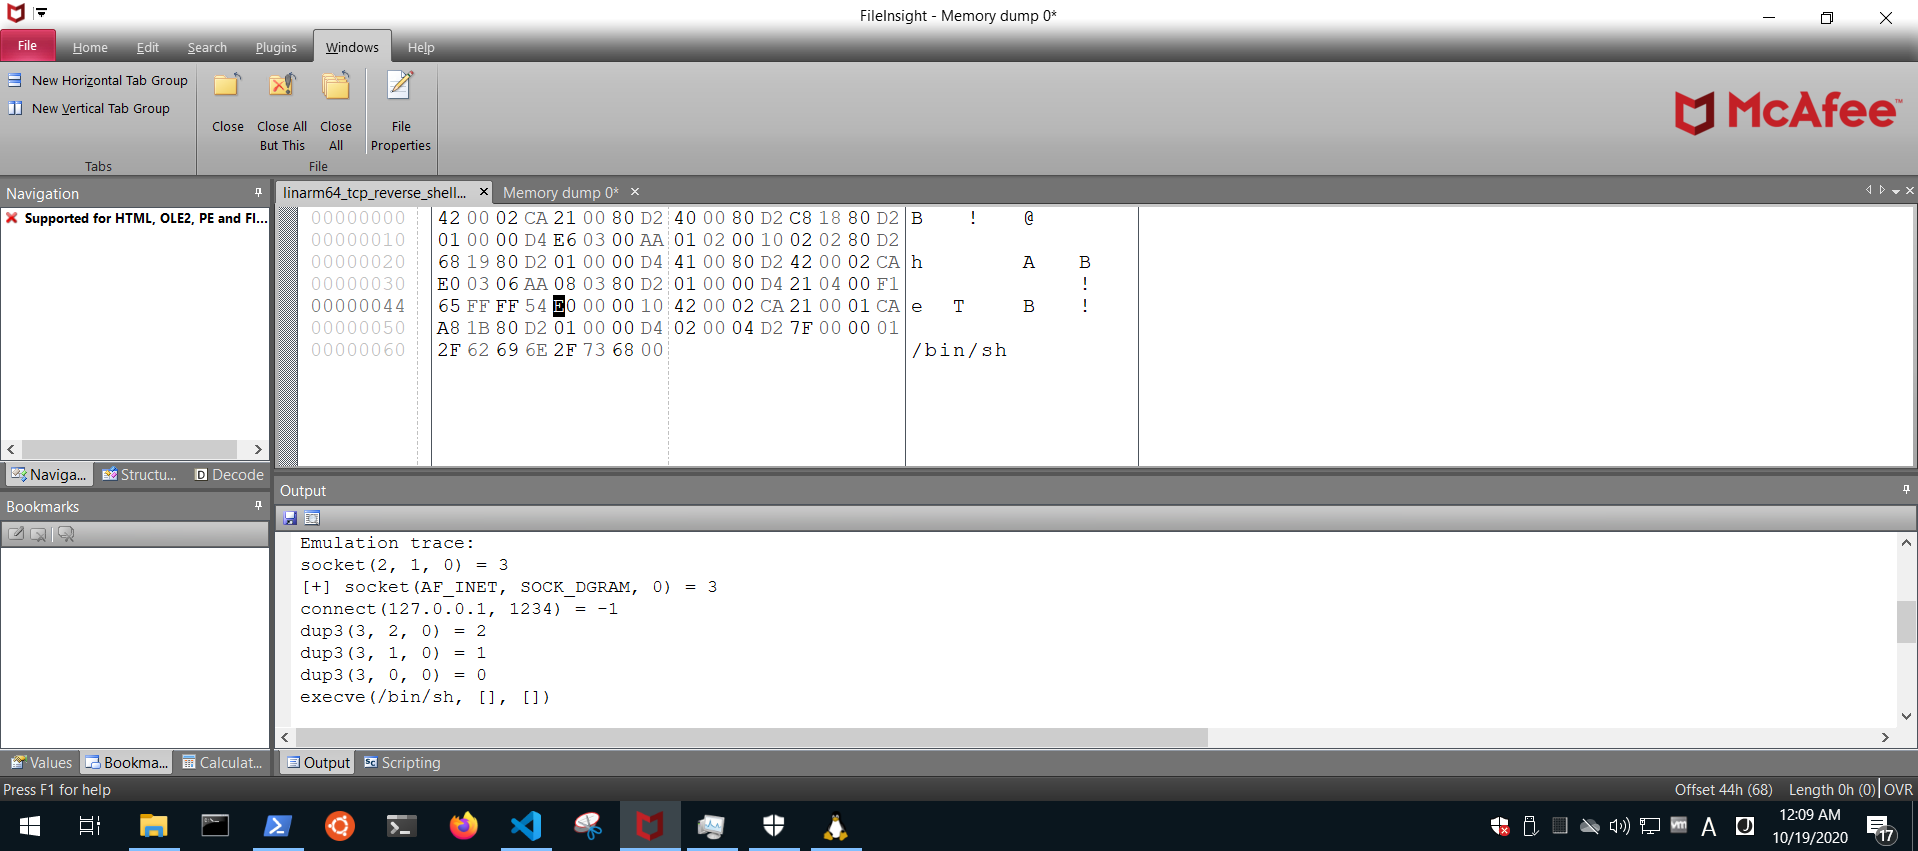
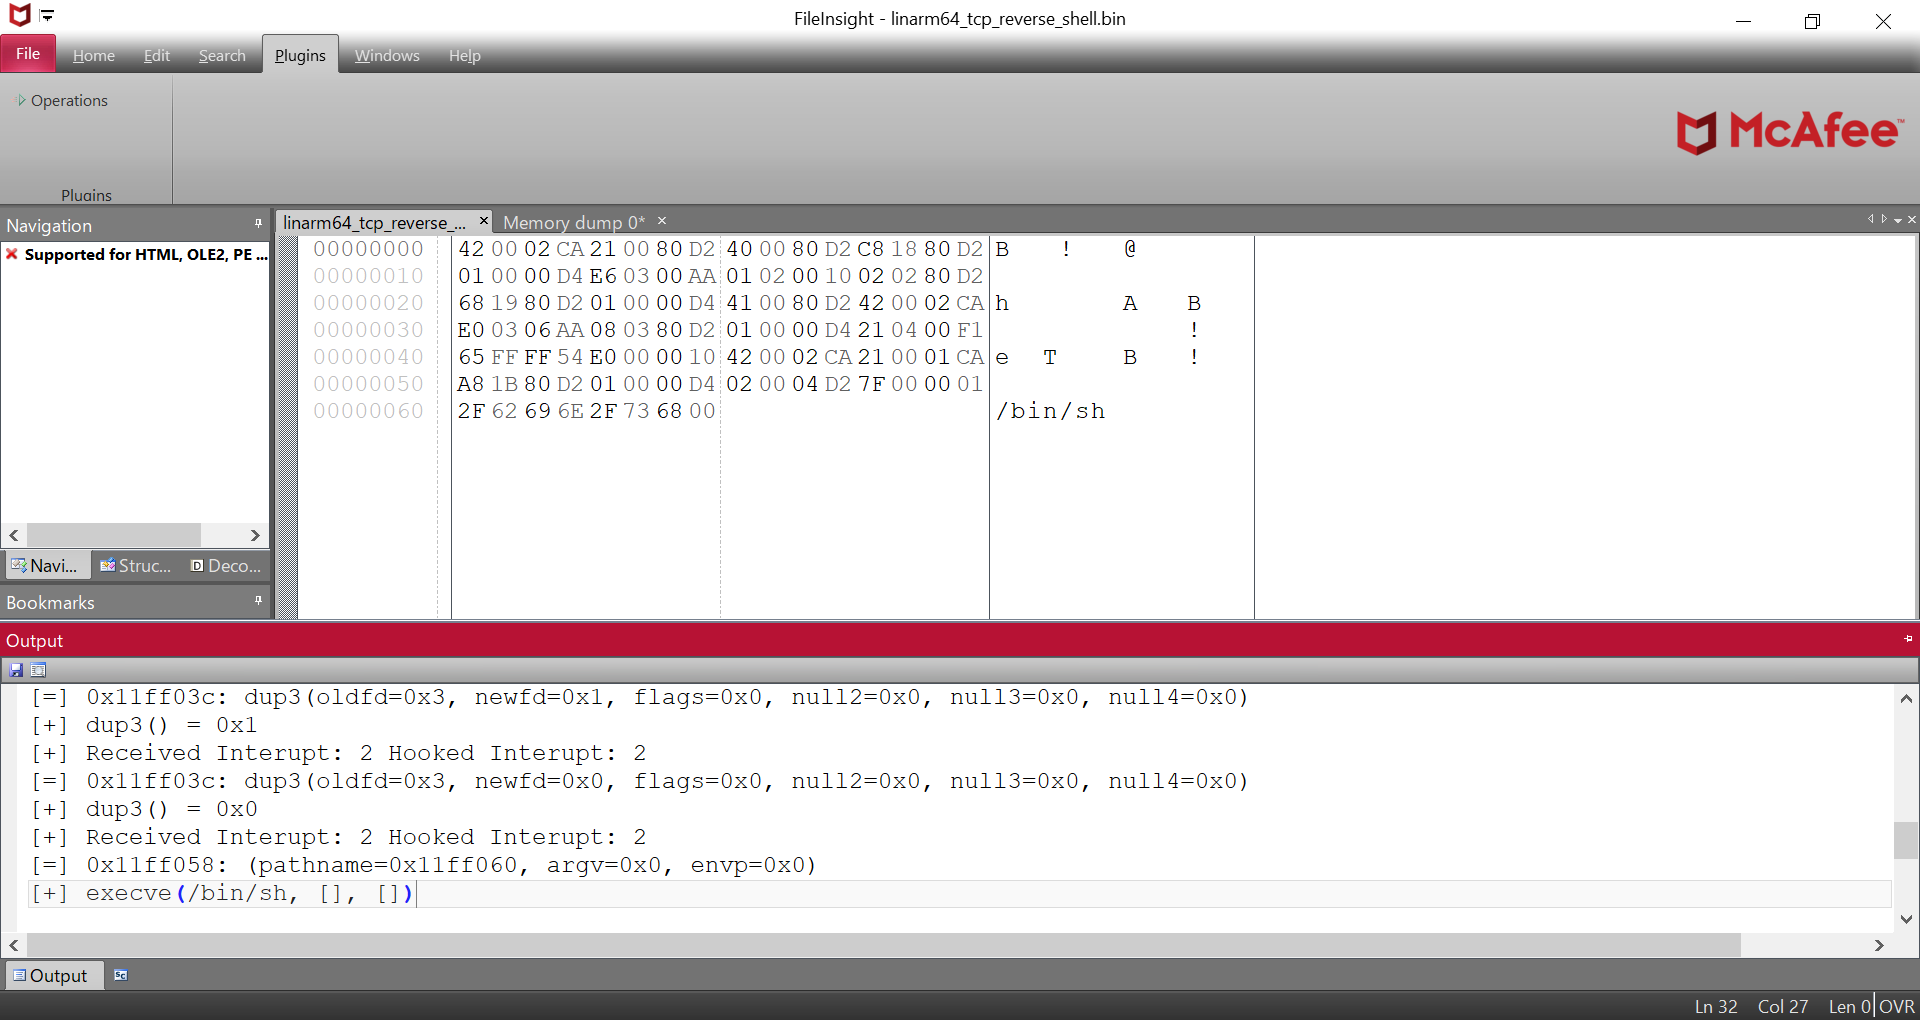
- Replace screenshot1.png with screenshot of "AES decrypt" plugin. - Replace screenshot4.png with new one without Windows taskbar.

diff --git a/README.md b/README.md
@@ -5,7 +5,7 @@ It adds many capabilities such as decryption, decompression, searching XOR-ed te
 It is useful for various kind of decoding tasks in malware analysis (e.g. extracing malware executables and decoy documents from malicious document files).
 
 ## Screenshots
-#### Dialog of "YARA scan" plugin
+#### Dialog of "AES decrypt" plugin
 ![screenshot1.png](docs/screenshot1.png)
 
 #### Scan result of "YARA scan" plugin
